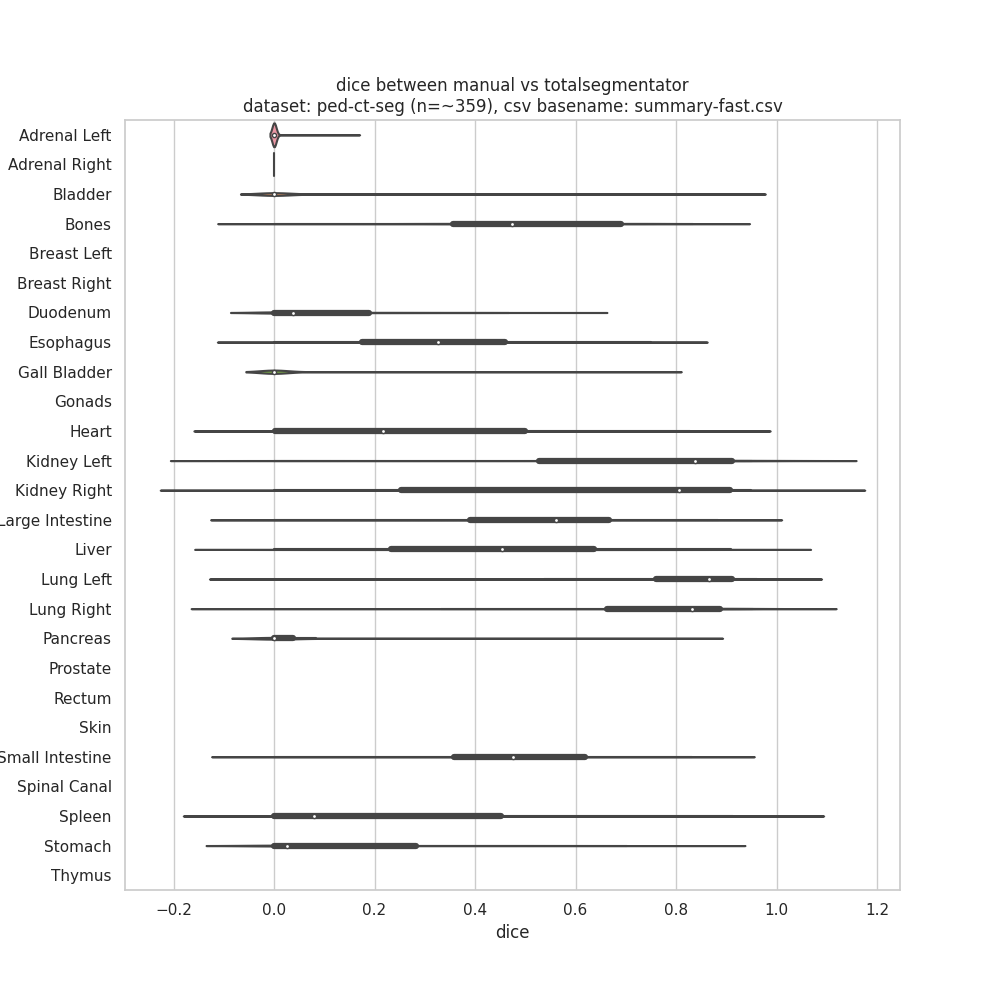
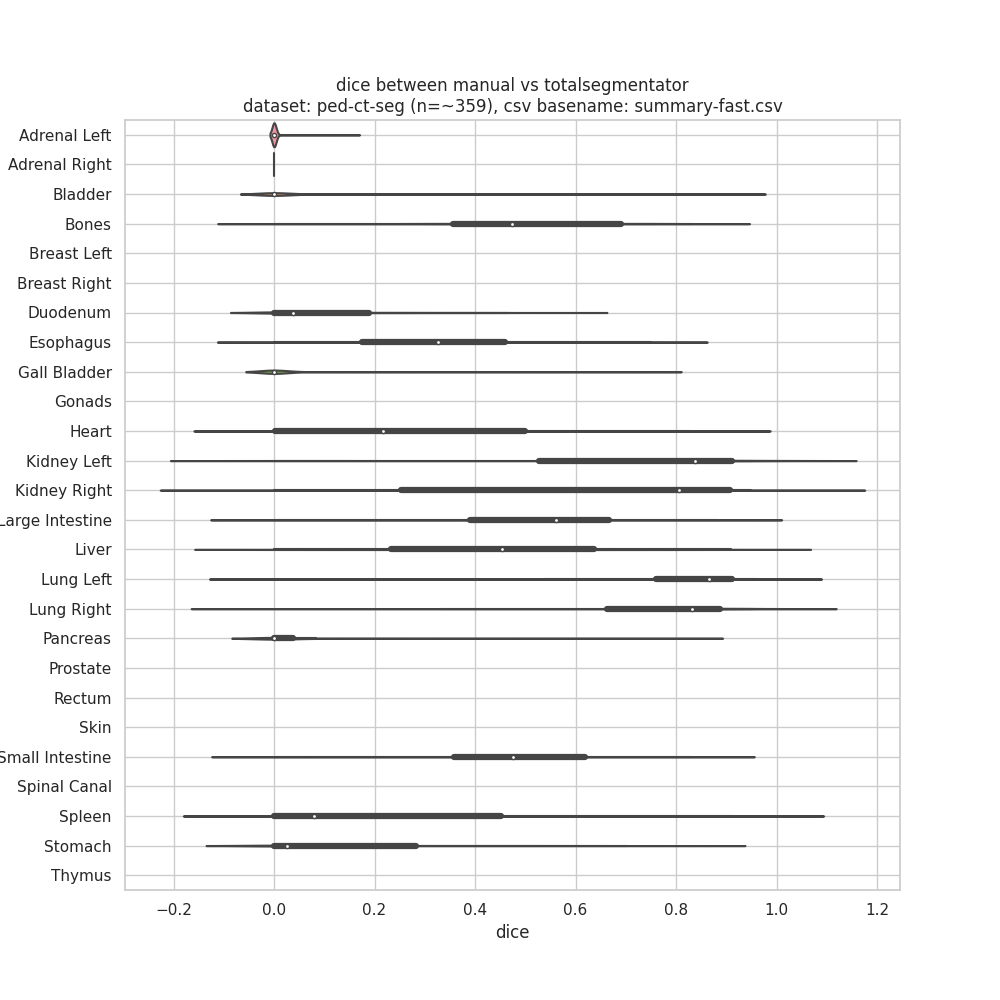
updated plot to violin-plot

diff --git a/assess/ped-ct-seg/aggregate.py b/assess/ped-ct-seg/aggregate.py
@@ -34,8 +34,8 @@ def my_plots(root_folder,output_folder,postfix=''):
     vdf = pd.DataFrame(mylist)
     sns.violinplot(vdf,x='dice',y='organ', ax = axes)
     postfix_str = f'csv basename: {os.path.basename(summary_csv_file)}'
-    plt.title(f'dice between manual vs totalsegmentator\ndataset: ped-ct-seg (n=~359), {postfix_str}')    
-    #plt.show()
+    plt.title(f'dice between manual vs totalsegmentator\ndataset: ped-ct-seg (n=~359), {postfix_str}')
+    plt.grid(True)
     plt.savefig(summary_png_file)
 
 def main(root_folder,output_folder,postfix):
